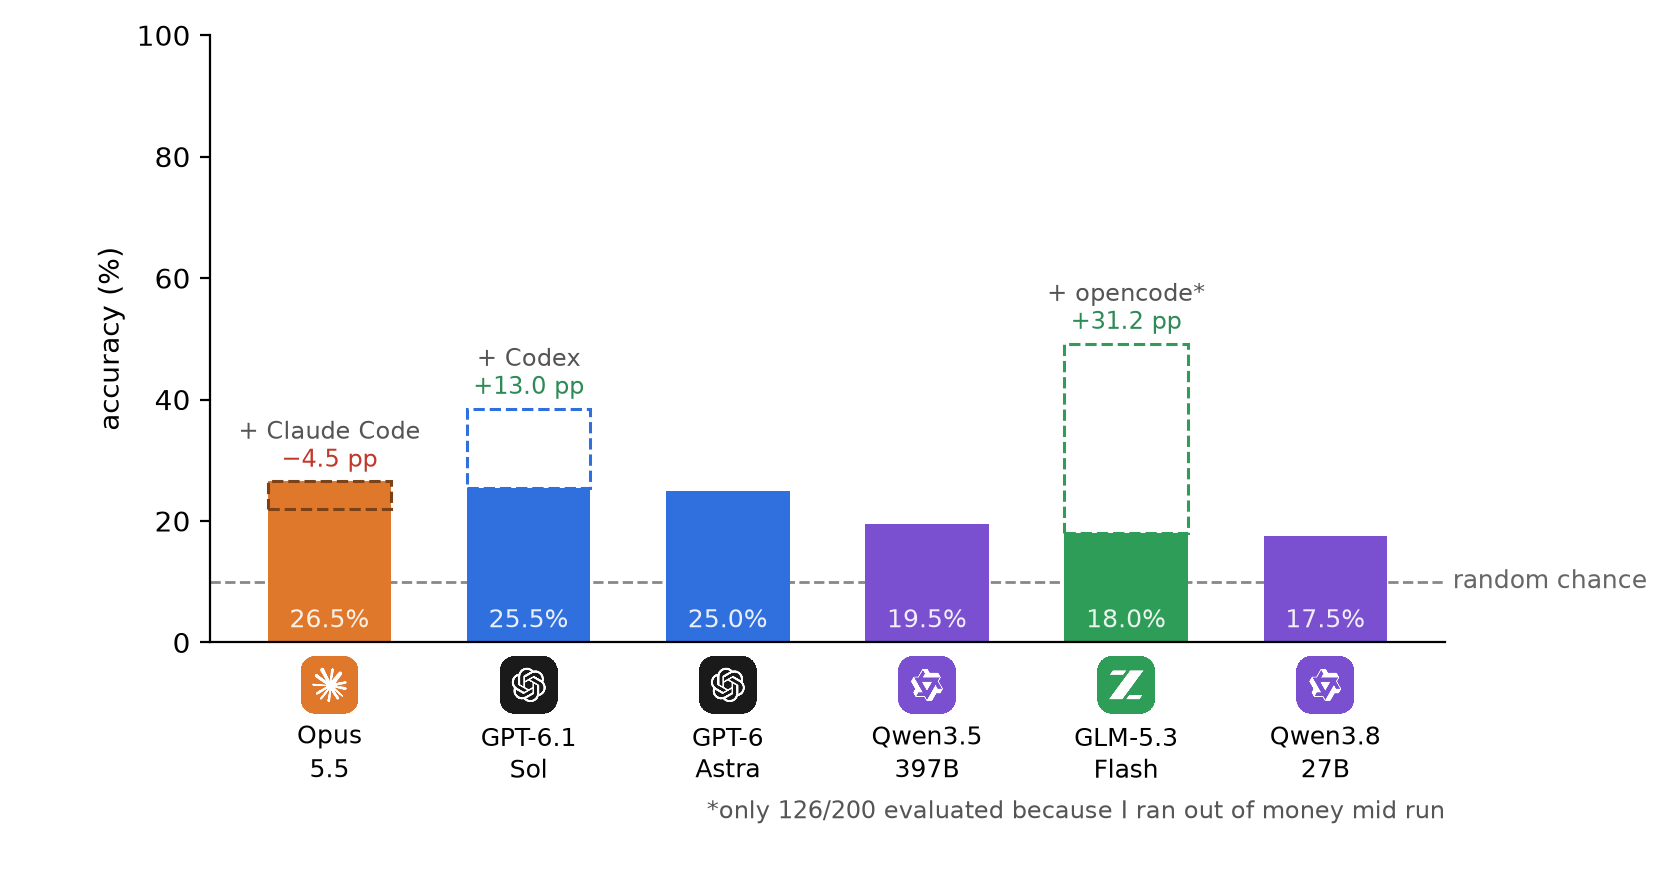
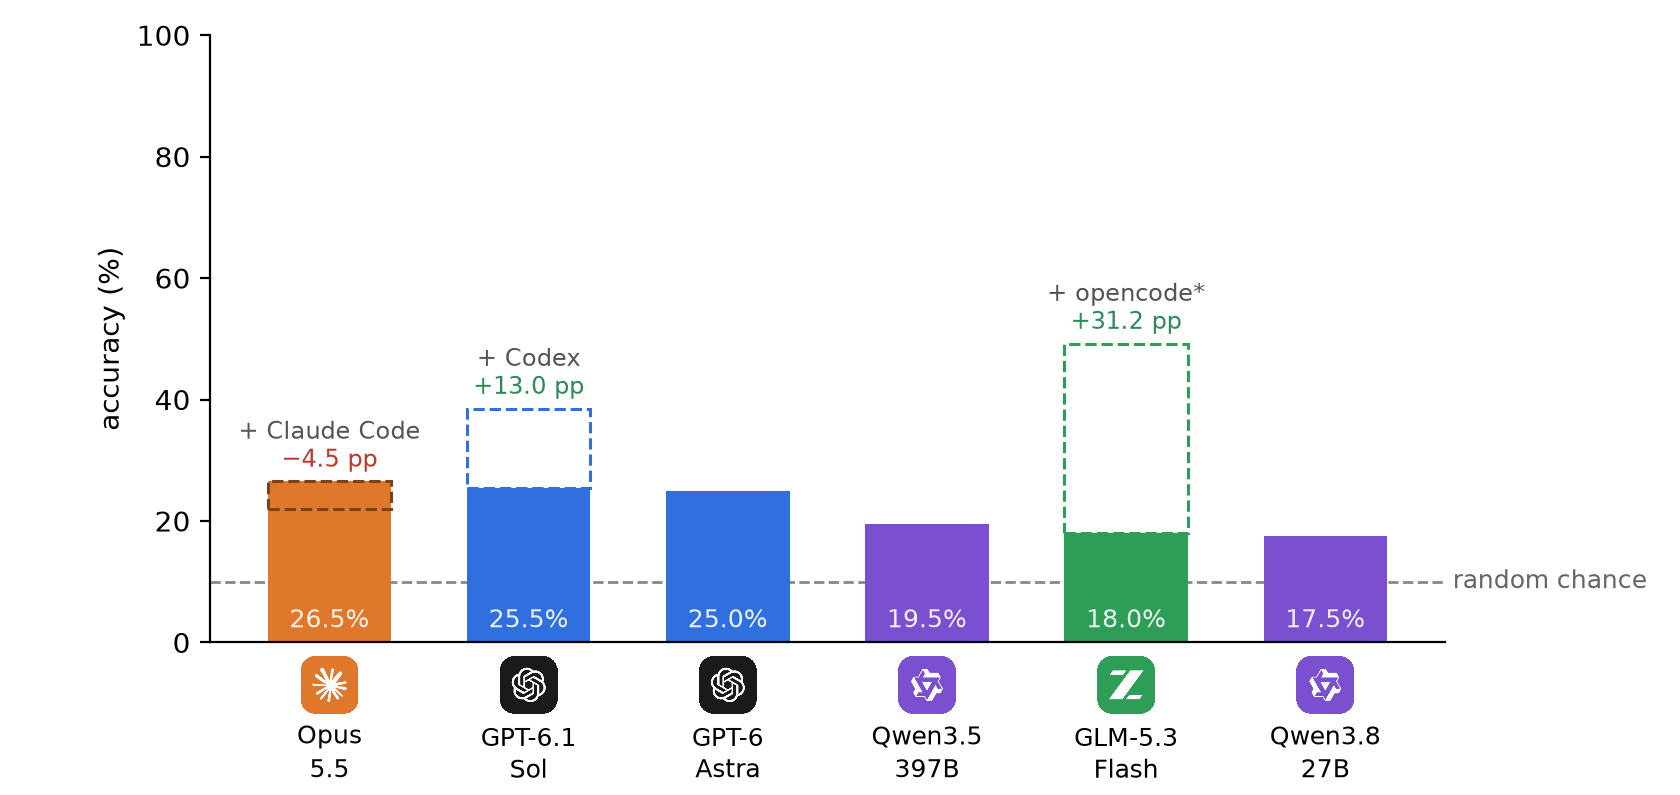
VideoColorBench post: wording edits, video caption, chart footnote as text

diff --git a/blog/videocolorbench/index.html b/blog/videocolorbench/index.html
@@ -62,7 +62,8 @@
   .egshots small{display:block;text-align:center;color:#666;font-size:.8rem;margin-top:.3rem}
   .eg figcaption{color:#666;font-size:.86rem;margin-top:.7rem;text-align:center}
   .vids video,.vids iframe{width:100%;aspect-ratio:16/9;border:0;border-radius:8px;display:block;background:#000}
-  .plot{width:100%;max-width:760px;display:block;margin:1.5rem auto}
+  .plot{width:100%;max-width:760px;display:block;margin:1.5rem auto 0}
+  .plotnote{max-width:760px;margin:.6rem auto 1.5rem;opacity:.75;padding-right:14%;text-align:right;color:#555;font:italic clamp(8px,1.4vw,10.7px) 'DejaVu Sans',Verdana,Geneva,sans-serif}
   .scores{border-collapse:collapse;margin:1rem auto;font-size:.95rem;width:auto;max-width:100%}
   .scores th{font-size:.75rem;text-transform:uppercase;letter-spacing:.05em;color:#888;font-weight:600;text-align:right;padding:.3rem .7rem;border-bottom:1px solid #ddd}
   .scores td{padding:.5rem .7rem;border-bottom:1px solid #eee;text-align:right;font-variant-numeric:tabular-nums}
@@ -143,7 +144,7 @@
 </section>
 
 <div class=wrap>
-<p>There's a fun trend going around the internet where an actor is given this barcode-like image where each line is a color of a single frame of a movie they are in and then they have to guess what movie it is. For example, in the image of 2001: A Space Odyssey below, there's a very distinctive block of deep red near the end, which is Dave shutting down HAL, followed by the bright colors of the Star Gate. I was curious how well vision language models can guess what movie an image is, so I built a benchmark around it.</p>
+<p>There's a fun trend going around the internet where an actor is given a barcode-like image of a movie they were in, where each line is the color of a single frame, and has to guess which movie it is. For example, in the image of 2001: A Space Odyssey below, there's a very distinctive block of deep red near the end, which is Dave shutting down HAL, followed by the bright colors of the Star Gate. I was curious how well vision language models can guess which movie an image comes from, so I built a benchmark around it.</p>
 <!-- <p>I shrank every frame of a video down to its average color and lined the colors up from start to finish. That gives you a barcode. Then I showed models the barcode with ten titles and asked which one it was.</p>
 <p>There are 200 questions. Half are the most viewed YouTube videos and half are popular films. Guessing gets you 10%.</p> -->
 
@@ -152,7 +153,7 @@
 <div class=vids>
   <iframe src="https://www.youtube-nocookie.com/embed/jWL22Qr0ma4" title="YouTube video" loading=lazy allow="accelerometer; autoplay; clipboard-write; encrypted-media; gyroscope; picture-in-picture" allowfullscreen></iframe>
   <!-- <video controls preload=metadata playsinline src="teaser.mp4"></video> -->
-  <p>The trend that inspired this benchmark.</p>
+  <p>Example video of actors doing the same task</p>
 </div>
 
 <h2 id=viewer>Benchmark construction</h2>
@@ -164,8 +165,8 @@
     <div class=time id=time></div>
   </div>
 </div>
-<p>I took the 100 most viewed YouTube videos and 100 popular movies that I could easily download on the internet without torrents. For each video, I grabbed a frame every second and averaged it down to a single color. A benchmark pet peeve of mine is when the multiple choice answers are too easy and you can trivially infer the correct answer by process of elimination. So, I made it 10 possible choices to really try to challenge the models.</p>
-<p>I ran each model through their API on medium reasoning without any websearch tools and asked them to give their best answer. I was also curious about how agentic harnesses could improve their accuracy, so I did a separate run where the model was allowed to use tools and search the internet to answer each question.</p>
+<p>I took the 100 most viewed YouTube videos and 100 popular movies that I could easily download without torrenting. For each video, I grabbed a frame every second and averaged it down to a single color. A benchmark pet peeve of mine is when the multiple choice answers are too easy and you can trivially infer the correct answer by process of elimination. So I gave each question 10 possible choices to really challenge the models.</p>
+<p>I ran each model through its API on medium reasoning, without any web search tools, and asked them to give their best answer. I was also curious about whether agentic harnesses could improve their accuracy, so I did a separate run where the model was allowed to use tools and search the internet to answer each question.</p>
 
 <h2 id=examples>Example</h2>
 <div id=examples-list></div>
@@ -177,20 +178,21 @@
 <table class=scores id=scores></table>
 <p class=note id=agent-note></p>
 -->
-<img class=plot src="results.png" alt="Accuracy of each model over all 200 questions, with its agent harness run marked on the same bar">
+<img class=plot src="results.png?v=2" alt="Accuracy of each model over all 200 questions, with its agent harness run marked on the same bar">
+<p class=plotnote>*only 126/200 evaluated because I ran out of money mid run <span style="font-style:normal">😃</span></p>
 <h3 id=harness>Adding Agent Harness</h3>
 <!-- <p class=sub>The same models, now able to inspect the image, run code and search the web.</p> -->
 <!-- <p>With the video downloaded the task is trivial. An agent can build the barcode itself and compare, which gets 100%. So I made it a little harder. Agents could look the videos up but not download them.</p> -->
-<p>Oddly enough <span class='ml logo claude'></span>Opus 5.5 with the Claude Code harness was lazy and never ran a single web search. It looked at the image and guessed, so it scored about the same as the plain API call.</p>
+<p>Oddly enough, <span class='ml logo claude'></span>Opus 5.5 with the Claude Code harness was lazy and never ran a single web search. It looked at the image and guessed, so it scored about the same as the plain API call.</p>
 <p><span class='ml logo openai'></span>GPT-6.1 Sol with the Codex harness searched the web on nearly every question. It looked up written descriptions of each candidate, with queries like "Bad Romance music video scenes white red ending" that mostly landed on Wikipedia, Reddit and IMDb. For films it also searched for existing movie barcodes. This only helped a little because it was matching colors against words. It never looked at a single frame of the candidates.</p>
 <p><span class='ml logo zai'></span>GLM-5.3 Flash with the opencode harness went further. By pulling YouTube's preview thumbnails for each candidate and compared their colors to the barcode, it was able to get the highest accuracy by far.</p>
 <p>I also tried giving each agent access to the downloaded videos, but that turned out to be too easy and the models were able to hit 100% accuracy.</p>
 
 
 <h2>Summary</h2>
-<p>This is a pretty hard benchmark where I would bet that only true film buffs or terminally online Youtubers could get close to 100% accuracy. Given how niche these questions are, I really really doubt the models are explicitly trained on this task. It's interesting to see that for even this niche task, American frontier models still beat out the best Chinese open-source models. </p>
+<p>This is a pretty hard benchmark where I would bet that only true film buffs or terminally online Youtubers could get close to 100% accuracy. Given how niche these questions are, I really really doubt the models are explicitly trained on this task. It's interesting to see that even on a task this niche, American frontier models still beat out the best Chinese open-source models. </p>
 
-<p>A link to the Github repo and the full dataset on huggingface can be found below.</p>
+<p>A link to the GitHub repo and the full dataset on Hugging Face can be found below.</p>
 
 <footer class=site-footer>
     <div class=contact-links>
